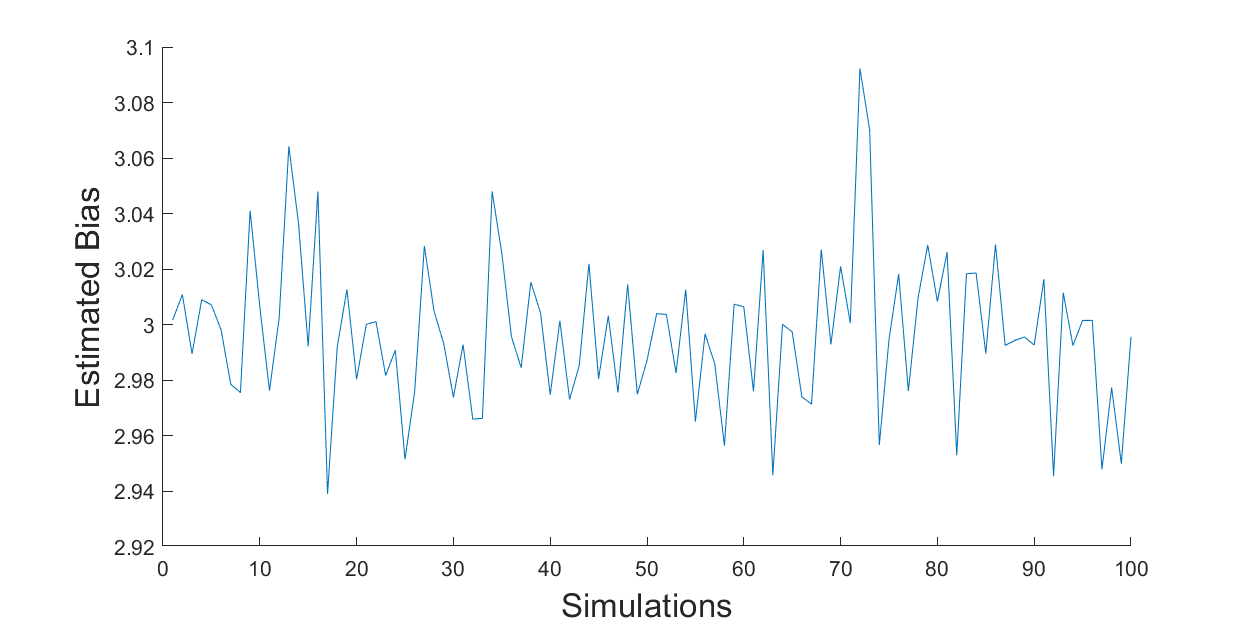
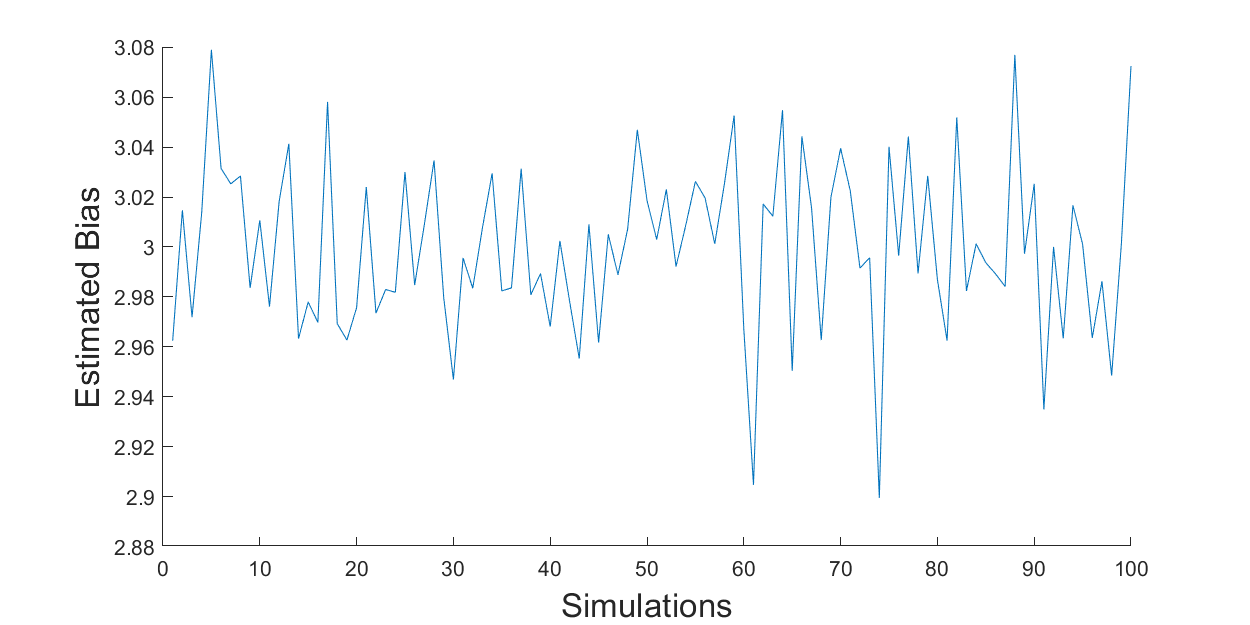
optimize q5 and a6 code

diff --git a/q5.m b/q5.m
@@ -8,16 +8,18 @@ t = linspace(0,100,1000);
 b = 3;
 sigma = 1;
 mean_q5 = 0;
-
+[gaussianDistVector] = gaussianDistFCN([100 1],sigma,mean_q5);
 a = zeros(100,length(t));
+a(:,1) = b + gaussianDistVector;
 v = zeros(100,length(t));
 p = zeros(100,length(t));
 
+
+dt = 0.1;
 for i = 1:100
-    dt = 0.1;
-    [gaussianDistVector] = gaussianDistFCN([1 1],sigma,mean_q5);
-    a(i,1) = b + gaussianDistVector;
+
     for k = 2:length(t)
+
         [gaussianDistVector] = gaussianDistFCN([1 1],sigma,mean_q5);
         a(i,k) = b + gaussianDistVector;
         v(i,k) = v(i,k-1) + a(i,k-1)*dt;
